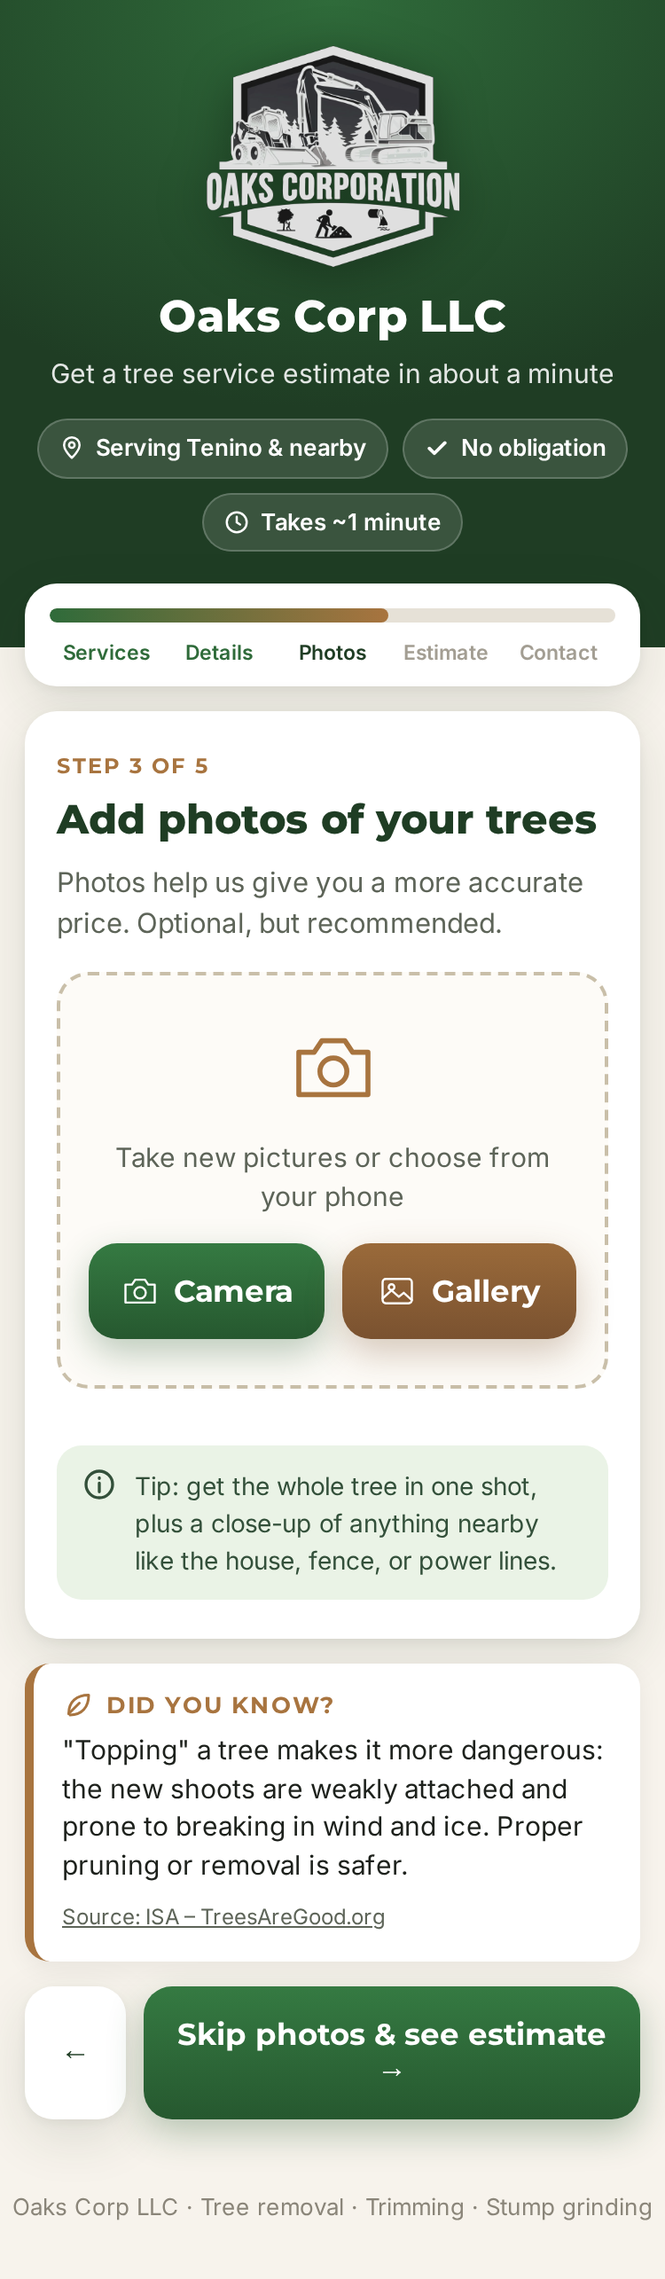
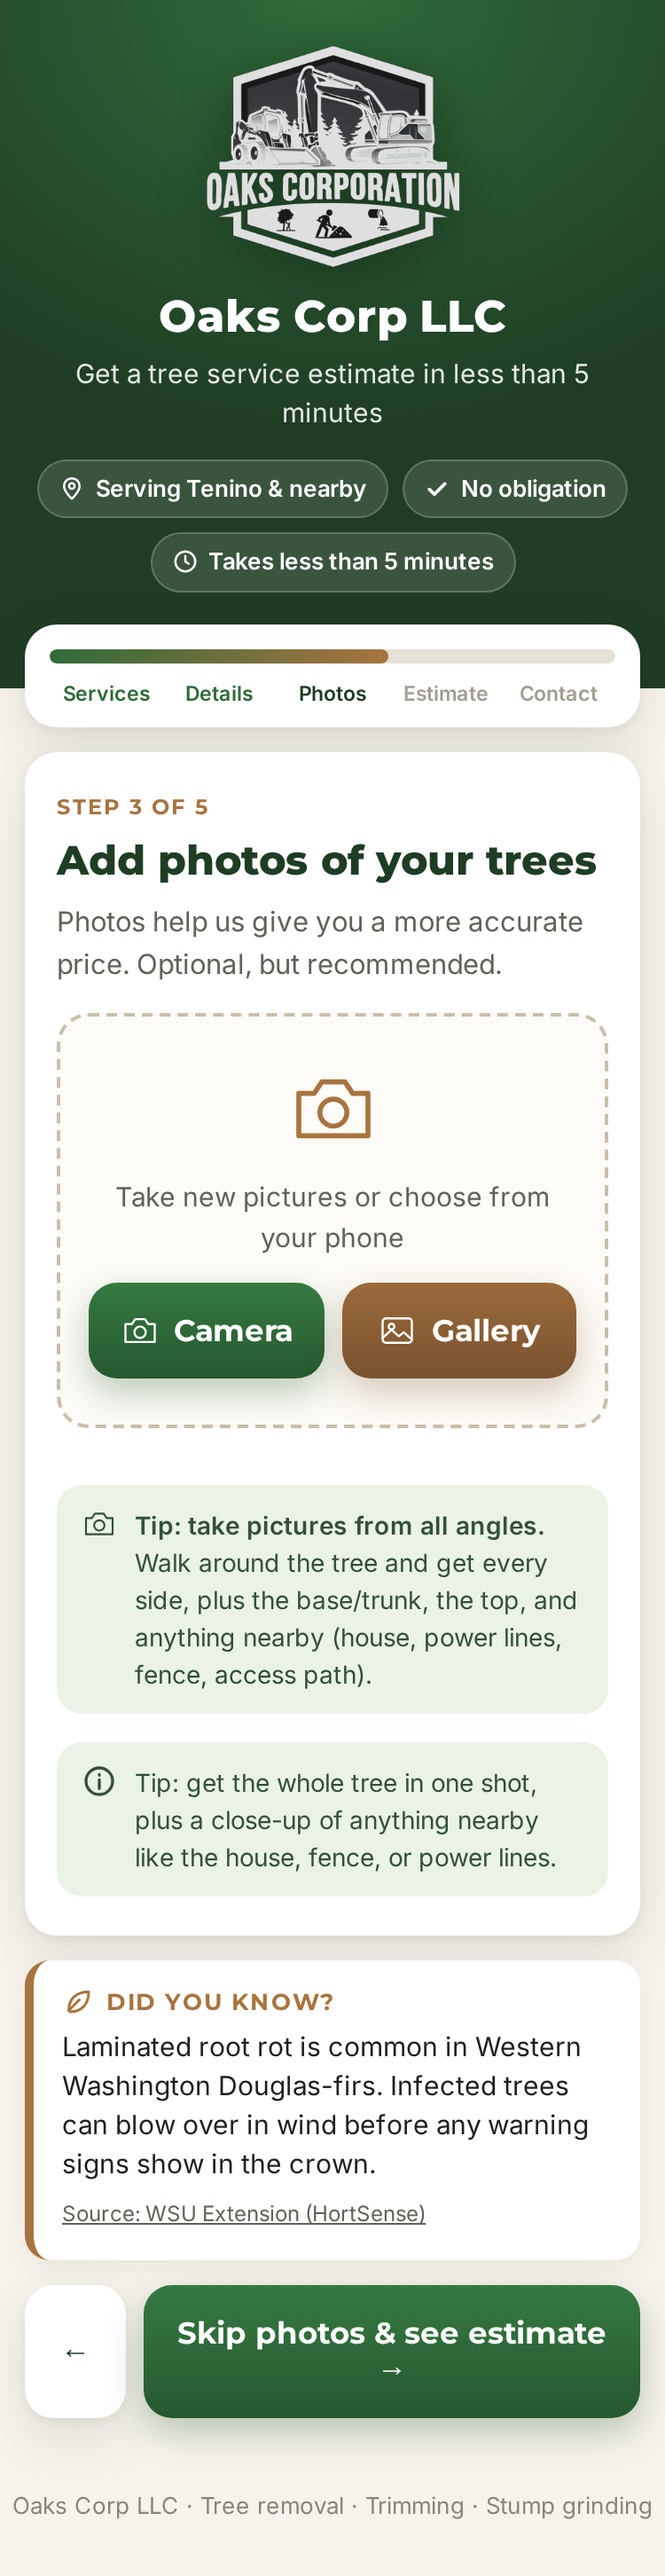
Real Oaks Corp prices, diameter, branch-only trim, chips question, why-a-range

diff --git a/index.html b/index.html
@@ -9,51 +9,36 @@
 <link href="https://fonts.googleapis.com/css2?family=Montserrat:wght@600;700;800&family=Inter:wght@400;500;600&display=swap" rel="stylesheet">
 <script>
 /* =====================================================================
-   PRICE CONFIG — EXAMPLE PLACEHOLDER PRICES ONLY.
-   These are NOT real Oaks Corp prices. Brett: replace every number below
-   with your own. All amounts are US dollars, given as [low, high].
+   PRICE CONFIG — Oaks Corp prices (Brett, Nov 2026). US dollars [low, high].
+   Base = easy access, nothing nearby, includes cleanup of branches, no stump.
    ===================================================================== */
 const PRICES = {
-  removal: {              // per tree (EXAMPLE placeholders)
-    small:  [300, 700],   // under 30 ft
-    medium: [700, 1500],  // 30–60 ft
-    large:  [1500, 3500], // 60–80 ft
-    xl:     [3000, 6000], // 80–100 ft
-    huge:   [5000, 10000] // 100 ft+
+  jobMinimum: 450,
+  removal: {
+    small:  [700, 900],   // under 30 ft
+    medium: [1000, 1400], // 30–60 ft
+    large:  [1500, 2700], // 60–80 ft
+    xl:     [2000, 4500], // 80–100 ft
+    huge:   [2000, 5000]  // 100 ft+
   },
-  trimming: {             // per tree (EXAMPLE placeholders)
-    small:  [150, 400],
-    medium: [400, 900],
-    large:  [900, 2000],  // 60–80 ft
-    xl:     [1500, 3000], // 80–100 ft
-    huge:   [2500, 5000]  // 100 ft+
+  trimming: {
+    small:  [500, 1000],
+    medium: [800, 2000],
+    large:  [800, 2000],
+    xl:     [800, 3000],
+    huge:   [1500, 3000]
   },
-  stump: {                // stump grinding (EXAMPLE placeholders)
-    perInchDiameter: [3, 5],  // $ per inch of diameter, per stump
-    minimumPerStump: [100, 150],
-    tripMinimum:     [150, 200] // minimum charge for a stump-only job
-  },
-  // Percent added to a tree's price (0.25 = +25%) — EXAMPLE placeholders
-  // What the tree is near — percent added (0.25 = +25%). EXAMPLE placeholders.
-  // If several are picked: the LARGEST one counts in full, plus
-  // `extraHazardEach` for every additional one picked.
-  nearHazards: { powerlines: 0.50, house: 0.25, fence: 0.15, road: 0.15 },
+  branchOnly: [450, 600], // "Just a branch or two"
+  stump: { perInchDiameter: [15, 18], minimumPerStump: 250 },
+  // Percent added [low, high]. Several picked: largest in full + extraHazardEach per extra.
+  nearHazards: { powerlines:[0.10,0.25], overlines:[0.25,0.50], house:[0.10,0.25], fence:[0.05,0.25] },
   extraHazardEach: 0.10,
-  // Access width — percent added. EXAMPLE placeholders.
-  access: {
-    wide:   0,     // Wide open, 10 ft+ (trucks/equipment drive up)
-    gate:   0.10,  // Gate or path 6–10 ft (skid steer)
-    narrow: 0.25,  // Narrow 3–6 ft (mini equipment / hand carry)
-    none:   0.45   // Under 3 ft or none (hand carry / crane)
-  },
-  // Septic tank / drain field — percent added if YES. EXAMPLE placeholders.
-  // Both can apply (they add together).
-  septic: { path: 0.15, near: 0.10 },
-  // Cleanup/haul-away, percent added to a tree's price — EXAMPLE placeholder
-  haulAway: 0.20,
-  // Tree type multiplier (1 = no change). All 1 for now — hook for later.
-  treeType: { douglasfir:1, redcedar:1, bigleafmaple:1, alder:1, oak:1, cottonwood:1,
-              hemlock:1, pine:1, birch:1, cherry:1, other:1, unsure:1 }
+  access: { wide:[0,0], mid:[0.10,0.10], tight:[0.10,0.25] },
+  septic: [0, 0.10],      // if in path or near tree (once)
+  haulAway: [0.10, 0.25], // wood we can't chip
+  // Bushier spreading hardwoods +25%
+  treeType: { douglasfir:1, redcedar:1, bigleafmaple:1.25, alder:1, oak:1.25, cottonwood:1.25,
+              hemlock:1, pine:1, birch:1.25, cherry:1.25, other:1, unsure:1 }
 };
 </script>
 <style>
@@ -226,7 +211,8 @@ select{width:100%;font:16.5px Inter,sans-serif;padding:13px;border:2px solid #e3
 <div class="est"><div class="lbl">Your estimated price range</div><div class="range" id="range"></div>
 <div class="disc"><svg width="15" height="15"><use href="#i-info"/></svg>Estimate only, confirmed on-site</div>
 <div class="lines" id="lines"></div>
-<div class="snote" id="septicNote" style="display:none"><svg width="18" height="18" style="flex:0 0 18px"><use href="#i-info"/></svg><span>Septic tanks and drain fields need careful equipment planning. We'll confirm how to protect them during the on-site visit.</span></div></div>
+<div class="snote" id="septicNote" style="display:none"><svg width="18" height="18" style="flex:0 0 18px"><use href="#i-info"/></svg><span>Septic tanks and drain fields sometimes add a little cost, sometimes nothing. We'll check it on site.</span></div></div>
+<div class="snote" style="display:flex;margin-top:12px"><svg width="18" height="18" style="flex:0 0 18px"><use href="#i-info"/></svg><span><b>Why a range?</b> Every tree is different. The price depends on whether we can cut it from the ground or have to climb it, whether we haul off the wood, the type of tree (maples and oaks are bushier with heavy limbs), how easy it is to get in, and anything nearby like a house, power lines, or a fence. We'll confirm your final price after we see it.</span></div>
 <div class="sum" id="sumEst"></div>
 <p class="fine">This is a rough estimate based on your answers. Your final price is confirmed after we look at the trees in person.</p>
 <div class="fact"><div class="fact-h"><svg><use href="#i-leaf"/></svg>Did you know?</div><p class="fact-t"></p><a class="fact-s" target="_blank" rel="noopener"></a></div>
@@ -276,17 +262,21 @@ const TYPES=[['unsure','Not sure'],['oak','Oak (Garry / Oregon white oak)'],['do
 const typeName=t=>{const v=t.querySelector('.ttype').value;return v==='other'?(t.querySelector('.tother').value.trim()||'Other'):TYPES.find(x=>x[0]===v)[1]};
 function addTree(type){const list=$(type==='removal'?'removalList':'trimList');const el=document.createElement('div');el.className='tree';el.dataset.type=type;
  el.innerHTML=`<div class="tree-h"><h3>Tree ${list.children.length+1}</h3><button class="x" type="button">Remove</button></div>
+ ${type==='trimming'?`<span class="fl">How much trimming?</span>${seg('amt',[['full','Full trim','shape / thin the tree'],['branch','Just a branch or two','usually around $450']])}`:''}
  <span class="fl">Size</span>${seg('size',[['small','Small','under 30 ft'],['medium','Medium','30–60 ft'],['large','Large','60–80 ft'],['xl','Extra large','80–100 ft'],['huge','Huge','100 ft+']])}
+ <span class="fl">Trunk width (diameter), inches <span class="hint">Optional</span></span><input type="number" class="tdia" min="1" inputmode="numeric" placeholder="e.g. 20">
+ <div class="tip"><svg><use href="#i-info"/></svg><span><b>How to measure:</b> about 5 ft off the ground, wrap a tape around the trunk and divide by 3.14. Or just estimate. Rough guide: medium 16–26 in, large 26–36, extra large 36–48, huge 48+.</span></div>
  <span class="fl">What type of tree is it?</span><select class="ttype">${TYPES.map(t=>`<option value="${t[0]}">${t[1]}</option>`).join('')}</select>
  <input class="tother" placeholder="What kind of tree?" style="display:none;margin-top:8px">
  <span class="fl">What is it near? <span class="hint">Pick all that apply</span></span>
- <div class="multi" data-k="near"><button type="button" data-v="powerlines">Power lines</button><button type="button" data-v="house">House / structure</button><button type="button" data-v="fence">Fence / shed</button><button type="button" data-v="road">Road / driveway</button><button type="button" data-v="open" data-x="1" class="full sel">Open area, nothing nearby</button></div>
+ <div class="multi" data-k="near"><button type="button" data-v="powerlines">Near power lines</button><button type="button" data-v="overlines">Hanging over / touching power lines</button><button type="button" data-v="house">House / building</button><button type="button" data-v="fence">Fence / shed / road</button><button type="button" data-v="open" data-x="1" class="full sel">Open area, nothing nearby</button></div>
  <span class="fl">How wide is the way in to the tree?</span>
- <div class="acc" data-k="access"><button type="button" data-v="wide" class="sel">Wide open, 10 ft+<small>Trucks / equipment drive up</small></button><button type="button" data-v="gate">Gate or path 6–10 ft<small>Skid steer</small></button><button type="button" data-v="narrow">Narrow 3–6 ft<small>Mini equipment / hand carry</small></button><button type="button" data-v="none">Under 3 ft or none<small>Hand carry / crane</small></button></div>
+ <div class="acc" data-k="access"><button type="button" data-v="wide" class="sel">Easy, 7 ft or wider<small>Trucks / equipment drive up</small></button><button type="button" data-v="mid">3–7 ft gate or path<small>Smaller equipment</small></button><button type="button" data-v="tight">Under 3 ft or none<small>Tight access, hand carry</small></button></div>
  <div class="gw"><span>Gate width if known (ft)</span><input type="number" class="gwidth" min="0" step="0.5" inputmode="decimal" placeholder="optional"></div>
  <span class="fl">Is there a septic tank or drain field in the access path or near the tree?</span>
  <div class="multi" data-k="septic"><button type="button" data-v="no" data-x="1" class="sel">No</button><button type="button" data-v="unsure" data-x="1">Not sure</button><button type="button" data-v="path">Yes, in the access path</button><button type="button" data-v="near">Yes, near the tree</button></div>
- <label class="tog"><input type="checkbox" class="haul" checked><i></i>Clean up &amp; haul away debris</label>
+ <label class="tog"><input type="checkbox" class="haul"><i></i>Would you like us to haul away the wood we can't chip? (anything over about 10–13 inches thick)</label>
+ <span class="fl">Do you want to keep the wood chips?</span>${seg('chips',[['no','No','we take them'],['yes','Yes','leave them']])}
  <span class="fl">Notes about this tree (optional)</span><textarea class="tnotes" rows="2" placeholder="Species, leaning, dead limbs, anything else"></textarea>`;
  el.querySelector('.x').onclick=()=>{el.remove();[...list.children].forEach((t,i)=>t.querySelector('h3').textContent='Tree '+(i+1))};
  el.querySelector('.ttype').onchange=e=>{el.querySelector('.tother').style.display=e.target.value==='other'?'block':'none'};
@@ -321,7 +311,7 @@ showFact(false);setInterval(()=>{fi++;showFact(true)},20000);
 let when='';document.querySelectorAll('.wopt').forEach(o=>o.onclick=()=>{document.querySelectorAll('.wopt').forEach(x=>x.classList.toggle('sel',x===o));when=o.dataset.v;$('emNote').style.display=when.startsWith('ASAP')?'flex':'none'});
 const fmt=v=>'$'+(Math.round(v/10)*10).toLocaleString();const val=(t,k)=>t.querySelector(`.seg[data-k="${k}"] .sel`).dataset.v;
 const NAMES={xl:'extra large',huge:'huge',removal:'Removal',trimming:'Trimming',small:'small',medium:'medium',large:'large'};
-const LBL={powerlines:'power lines',house:'house/structure',fence:'fence/shed',road:'road/driveway',open:'open area',wide:'wide open 10 ft+',gate:'gate/path 6–10 ft',narrow:'narrow 3–6 ft',none:'under 3 ft / none',no:'no',unsure:'not sure',path:'in access path',near:'near tree'};
+const LBL={powerlines:'near power lines',overlines:'over/touching power lines',house:'house/building',fence:'fence/shed/road',open:'open area',wide:'7 ft+ (easy)',mid:'3–7 ft',tight:'under 3 ft',no:'no',unsure:'not sure',path:'in access path',near:'near tree'};
 const multi=(t,k)=>[...t.querySelectorAll(`.multi[data-k="${k}"] .sel`)].map(b=>b.dataset.v);
 let treeInfo=[],septicFlag=false;
 const esc=x=>String(x??'').replace(/[&<>"]/g,c=>({'&':'&amp;','<':'&lt;','>':'&gt;','"':'&quot;'}[c]));
@@ -333,26 +323,35 @@ function summary(done){let h='<h3>Your answers</h3>';
  treeInfo.forEach((t,i)=>{h+=grp(`${SVC[t.service]} · Tree ${treeInfo.slice(0,i+1).filter(x=>x.service===t.service).length}`,2,kv([
   ['Type',t.treeType],['Size',{small:'Small (under 30 ft)',medium:'Medium (30–60 ft)',large:'Large (60–80 ft)',xl:'Extra large (80–100 ft)',huge:'Huge (100 ft+)'}[t.size]],
   ['Near',t.near.map(v=>LBL[v]).join(', ')],['Access',LBL[t.access]+(t.gateWidthFt?` · gate ${t.gateWidthFt} ft`:'')],
-  ['Septic / drain field',t.septic.map(v=>LBL[v]).join(' + ')],['Haul-away',t.haulAway?'Yes':'No'],['Notes',t.notes]]),done)});
+  ['Trunk width',t.diameterIn?t.diameterIn+' in':''],['Trimming',t.amount==='branch'?'Just a branch or two':(t.service==='trimming'?'Full trim':'')],['Septic / drain field',t.septic.map(v=>LBL[v]).join(' + ')],['Haul away wood',t.haulAway?'Yes':'No'],['Keep wood chips',t.keepChips?'Yes, leave them':'No'],['Notes',t.notes]]),done)});
  if(sel.has('stump'))h+=grp('Stump grinding',2,kv([['Stumps',$('stumpCount').value],['Avg. width',$('stumpDia').value+' in']]),done);
  h+=grp('Photos',3,kv([['Photos added',photos.length||'None']]),done);
  if(done)h+=grp('Timing &amp; contact',5,kv([['When',when||'Not chosen'],['Preferred date',$('pdate').value],['Land clearing, excavation, site prep, utilities / drainage',$('landX').checked?'Interested':'No'],['Notes',$('notes').value]]),true);
  return h}
+const SIZES=['small','medium','large','xl','huge'];
+const diaSize=d=>!d?null:d<16?'small':d<26?'medium':d<36?'large':d<48?'xl':'huge';
 function calc(){let lo=0,hi=0;const lines=[];treeInfo=[];septicFlag=false;
- document.querySelectorAll('.tree').forEach(t=>{if(!sel.has(t.dataset.type))return;const b=PRICES[t.dataset.type][val(t,'size')];
-  const near=multi(t,'near').filter(v=>v!=='open'),hz=near.map(v=>PRICES.nearHazards[v]).sort((a,b)=>b-a);
-  const hazAdd=hz.length?hz[0]+PRICES.extraHazardEach*(hz.length-1):0;
-  const acc=t.querySelector('.acc .sel').dataset.v,sep=multi(t,'septic'),sepAdd=sep.reduce((a,v)=>a+(PRICES.septic[v]||0),0);
-  if(sep.includes('path')||sep.includes('near'))septicFlag=true;
-  const gw=t.querySelector('.gwidth').value,haul=t.querySelector('.haul').checked;
-  const tm=PRICES.treeType[t.querySelector('.ttype').value]||1;const m=tm*(1+hazAdd+PRICES.access[acc]+sepAdd+(haul?PRICES.haulAway:0));
-  const name=`${NAMES[t.dataset.type]} · ${t.querySelector('h3').textContent.toLowerCase()} (${NAMES[val(t,'size')]})`;
-  const det=`Type: ${typeName(t)} · Near: ${(near.length?near:['open']).map(v=>LBL[v]).join(', ')} · Access: ${LBL[acc]}${gw?` (gate ${gw} ft)`:''} · Septic/drain field: ${sep.map(v=>LBL[v]).join(' + ')}${haul?' · Haul-away':''}`;
-  treeInfo.push({service:t.dataset.type,size:val(t,'size'),treeType:typeName(t),near:near.length?near:['open'],access:acc,gateWidthFt:gw||null,septic:sep,haulAway:haul,notes:t.querySelector('.tnotes').value,range:fmt(b[0]*m)+'–'+fmt(b[1]*m)});
-  lo+=b[0]*m;hi+=b[1]*m;lines.push([name,fmt(b[0]*m)+'–'+fmt(b[1]*m)])});
+ document.querySelectorAll('.tree').forEach(t=>{if(!sel.has(t.dataset.type))return;
+  const hs=val(t,'size'),dia=+t.querySelector('.tdia').value||0,ds=diaSize(dia);
+  const size=ds&&SIZES.indexOf(ds)>SIZES.indexOf(hs)?ds:hs; // trunk width can bump size up
+  const amt=t.dataset.type==='trimming'?val(t,'amt'):'full';
+  const b=amt==='branch'?PRICES.branchOnly:PRICES[t.dataset.type][size];
+  const near=multi(t,'near').filter(v=>v!=='open');
+  const hz=i=>{const a=near.map(v=>PRICES.nearHazards[v][i]).sort((x,y)=>y-x);return a.length?a[0]+PRICES.extraHazardEach*(a.length-1):0};
+  const acc=t.querySelector('.acc .sel').dataset.v,sep=multi(t,'septic');
+  const sepYes=sep.includes('path')||sep.includes('near');if(sepYes)septicFlag=true;
+  const gw=t.querySelector('.gwidth').value,haul=t.querySelector('.haul').checked,chips=val(t,'chips')==='yes';
+  const tm=PRICES.treeType[t.querySelector('.ttype').value]||1;
+  const m=i=>tm*(1+hz(i)+PRICES.access[acc][i]+(sepYes?PRICES.septic[i]:0)+(haul?PRICES.haulAway[i]:0));
+  const tl=b[0]*m(0),th=b[1]*m(1);
+  const name=`${NAMES[t.dataset.type]} · ${t.querySelector('h3').textContent.toLowerCase()} (${amt==='branch'?'a branch or two':NAMES[size]})`;
+  treeInfo.push({service:t.dataset.type,size,heightSize:hs,diameterIn:dia||null,amount:amt,treeType:typeName(t),near:near.length?near:['open'],access:acc,gateWidthFt:gw||null,septic:sep,haulAway:haul,keepChips:chips,notes:t.querySelector('.tnotes').value,range:fmt(tl)+'–'+fmt(th)});
+  lo+=tl;hi+=th;lines.push([name,fmt(tl)+'–'+fmt(th)])});
  if(sel.has('stump')){const c=Math.max(1,+$('stumpCount').value||1),d=Math.max(1,+$('stumpDia').value||1),s=PRICES.stump;
-  let sl=c*Math.max(s.minimumPerStump[0],d*s.perInchDiameter[0]),sh=c*Math.max(s.minimumPerStump[1],d*s.perInchDiameter[1]);
-  if(lo===0){sl=Math.max(sl,s.tripMinimum[0]);sh=Math.max(sh,s.tripMinimum[1])}lo+=sl;hi+=sh;lines.push([`Stump grinding · ${c} × ${d}"`,fmt(sl)+'–'+fmt(sh)])}
+  const sl=c*Math.max(s.minimumPerStump,d*s.perInchDiameter[0]),sh=c*Math.max(s.minimumPerStump,d*s.perInchDiameter[1]);
+  lo+=sl;hi+=sh;lines.push([`Stump grinding · ${c} × ${d}"`,fmt(sl)+'–'+fmt(sh)])}
+ if(lo<PRICES.jobMinimum){lo=PRICES.jobMinimum;lines.push(['Job minimum',fmt(PRICES.jobMinimum)])}
+ hi=Math.max(hi,lo);
  if(photos.length)lines.push(['Photos attached',photos.length]);
  $('sumEst').innerHTML=summary(false);
  $('septicNote').style.display=septicFlag?'flex':'none';
